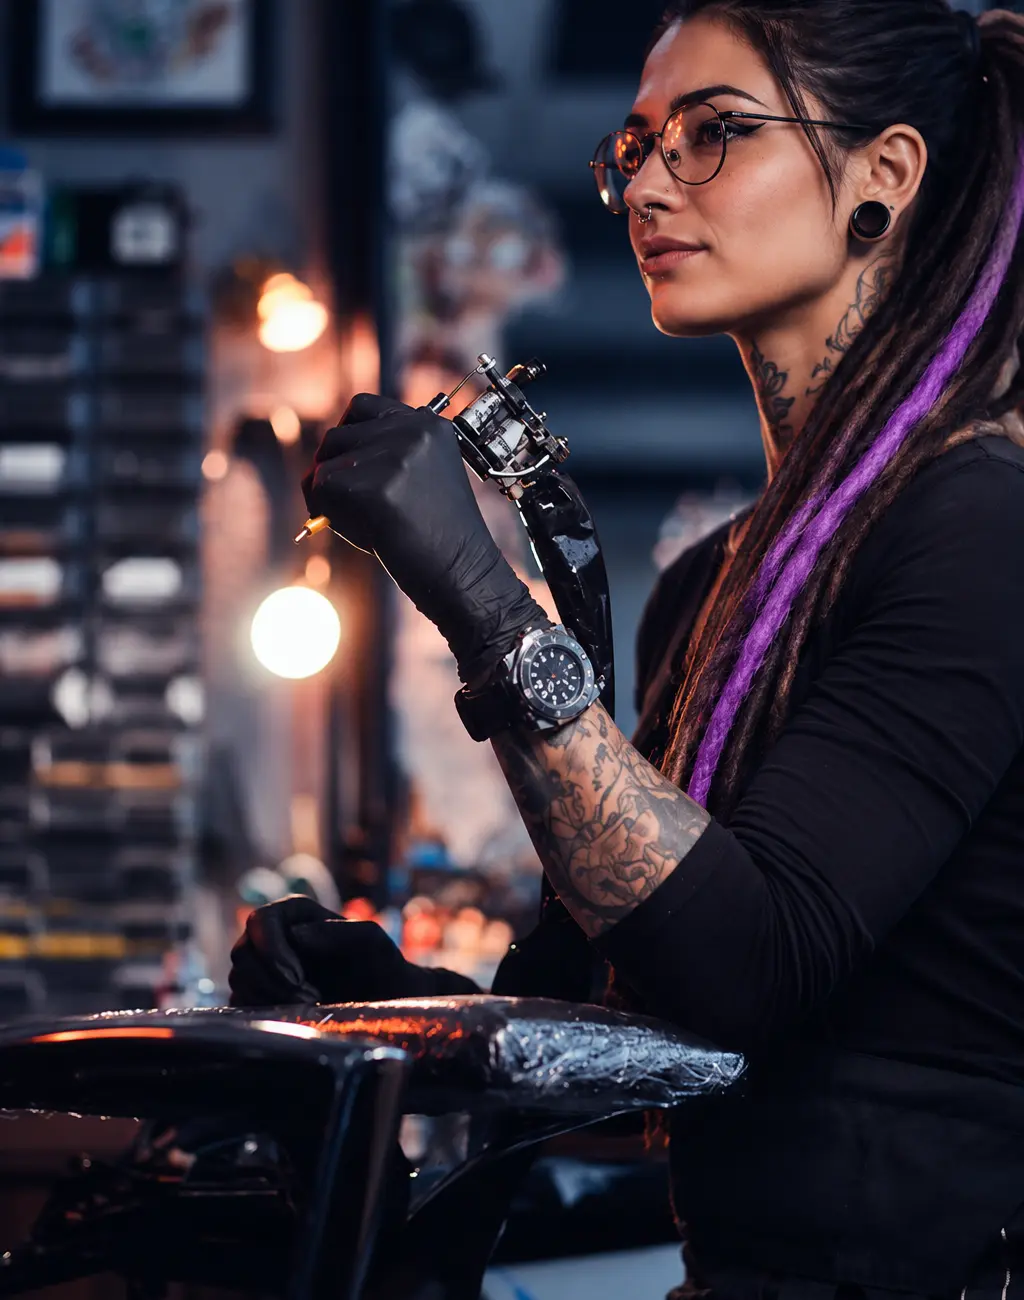
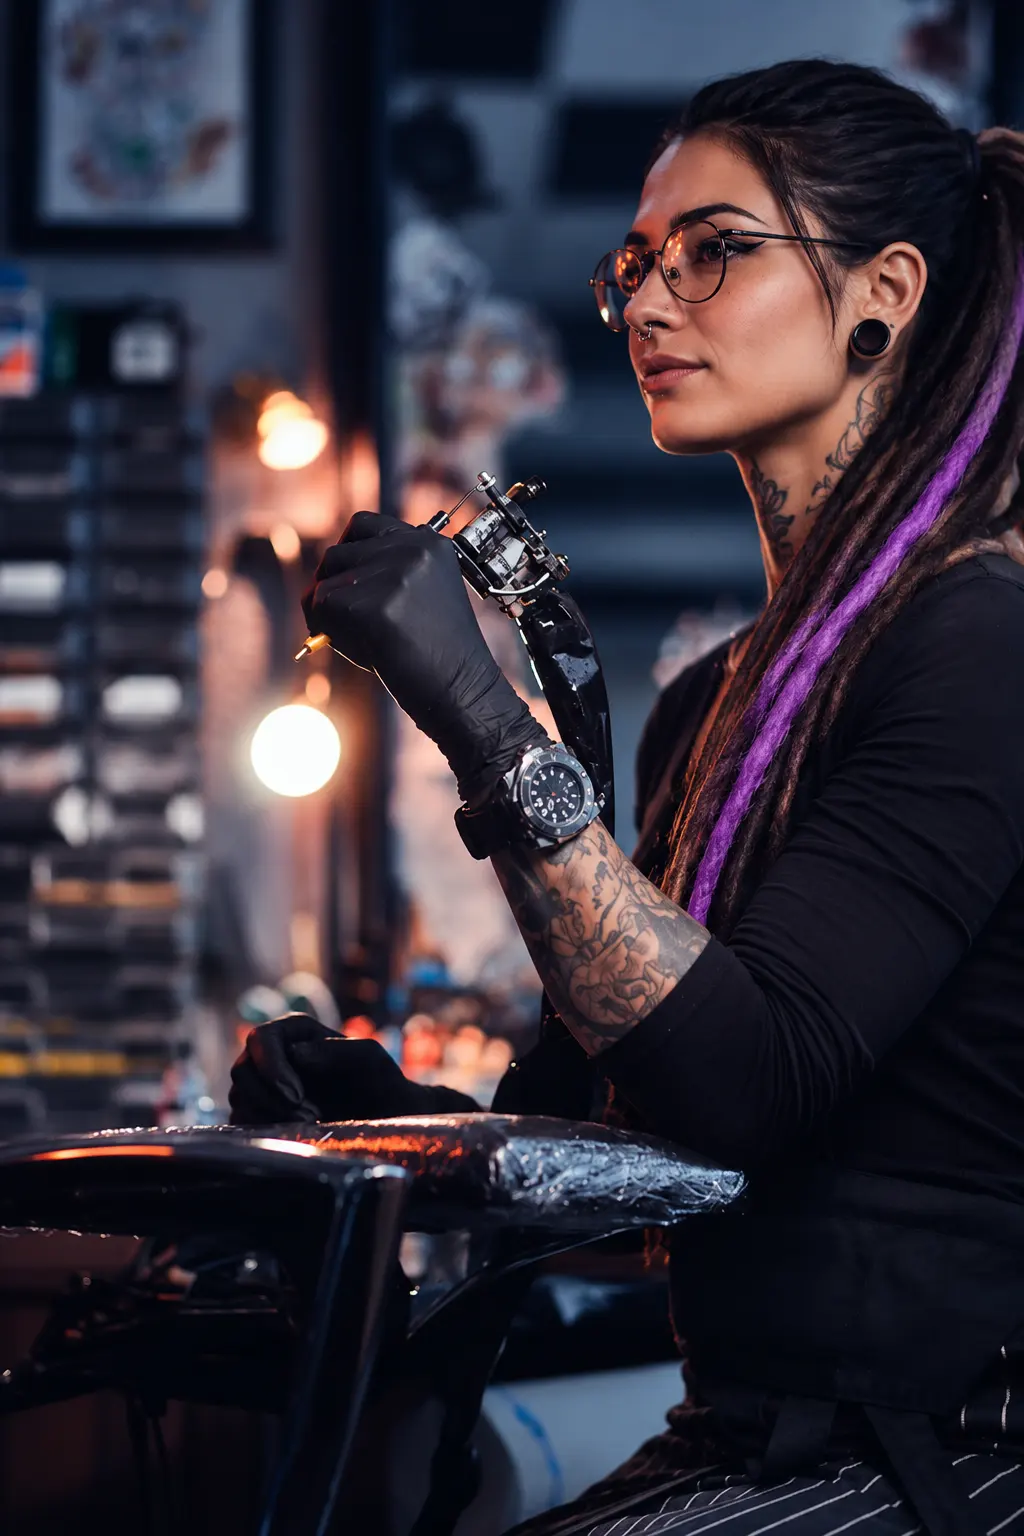
feat(diseño): salón en lavanda/rosa y uñas en pervinca/marino/coral, barra inferior igual para todos, tatuaje con cabeza completa

diff --git a/src/styles/temas-suaves.css b/src/styles/temas-suaves.css
@@ -116,42 +116,42 @@ html[data-theme="dark"]:has([data-vertical="spa"]) {
 [data-tema-vista="salon"],
 html[data-vertical="salon"],
 html:has([data-vertical="salon"]) {
-  --bg: #fffdfd;
-  --app-bg: #f7f1f1;
-  --surface: #f0e5e5;
-  --surface-2: #e6d8d8;
-  --ink: #33253a;
-  --paper: #fffdfd;
-  --signal: #ddbabd;
-  --signal-pressed: #cfa5a9;
-  --text: #2b2230;
-  --text-muted: #62566a;
-  --text-faint: #72667a;
-  --text-disabled: #9a8fa0;
-  --accent-text: #7a3f74;
-  --line: #d8c8cc;
-  --line-input: #8e7f94;
-  --grid: #eadcdd;
-  --grid-soft: #efe3e3;
-  --shadow-ink: #33253a;
-  --focus: #7a3f74;
-  --success: #a9d6b6;
-  --warning: #e6c98b;
-  --danger: #d9788b;
-  --info: #33253a;
-  --scrim: rgba(43, 34, 48, 0.55);
-  --sn-shadow-hard: 0 12px 28px -14px rgba(90, 50, 80, 0.32);
-  --sn-shadow-hard-sm: 0 6px 16px -10px rgba(90, 50, 80, 0.28);
-  --nav-bg: #fffdfd;
-  --nav-text: #2b2230;
-  --nav-muted: rgba(43, 34, 48, 0.66);
-  --nav-accent: #7a3f74;
-  --nav-active-bg: rgba(122, 63, 116, 0.1);
-  --nav-borde: #eadcdd;
-  --hero-gradient: linear-gradient(135deg, #f1d9dc 0%, #ddbabd 50%, #c59bb8 100%);
-  --kpi-gradient: linear-gradient(135deg, #e8c8cb, #d2a9c0);
-  --hero-text: #2b2230;
-  --r-card: 20px;
+  --bg: #fcfaff;
+  --app-bg: #f4eefa;
+  --surface: #ece4f4;
+  --surface-2: #e2d8ee;
+  --ink: #3f3452;
+  --paper: #fcfaff;
+  --signal: #d8c7ec;
+  --signal-pressed: #c9b5e3;
+  --text: #3f3452;
+  --text-muted: #655a78;
+  --text-faint: #766b88;
+  --text-disabled: #a79eb8;
+  --accent-text: #6a5590;
+  --line: #e0d6ec;
+  --line-input: #8d82a3;
+  --grid: #e8def2;
+  --grid-soft: #efe7f6;
+  --shadow-ink: #3f3452;
+  --focus: #6a5590;
+  --success: #b7d8bd;
+  --warning: #f1dca8;
+  --danger: #ee9db2;
+  --info: #3f3452;
+  --scrim: rgba(63, 52, 82, 0.55);
+  --sn-shadow-hard: 0 14px 30px -16px rgba(106, 85, 144, 0.34);
+  --sn-shadow-hard-sm: 0 6px 16px -10px rgba(106, 85, 144, 0.28);
+  --nav-bg: #fcfaff;
+  --nav-text: #3f3452;
+  --nav-muted: rgba(63, 52, 82, 0.66);
+  --nav-accent: #6a5590;
+  --nav-active-bg: rgba(139, 120, 168, 0.14);
+  --nav-borde: #e8def2;
+  --hero-gradient: linear-gradient(160deg, #efe3f5 0%, #f5d9e4 48%, #f8dcc8 100%);
+  --kpi-gradient: linear-gradient(135deg, #e3e8dc, #e4e1f0);
+  --hero-text: #3f3452;
+  --r-card: 24px;
   --sombra-banner: var(--sn-shadow-hard);
   --r-ctl: 999px;
   --brand: var(--signal);
@@ -165,90 +165,87 @@ html:has([data-vertical="salon"]) {
 [data-tema-vista="salon"][data-modo="dark"],
 html[data-theme="dark"][data-vertical="salon"],
 html[data-theme="dark"]:has([data-vertical="salon"]) {
-  --bg: #1e171f;
-  --app-bg: #161117;
-  --surface: #291f2b;
-  --surface-2: #352a37;
-  --ink: #120d13;
-  --paper: #f3ecf2;
-  --signal: #e3b5be;
-  --signal-pressed: #f0c9d1;
-  --text: #f3ecf2;
-  --text-muted: #c5b8c4;
-  --text-faint: #a89ba7;
-  --text-disabled: #7a6f79;
-  --accent-text: #ddaad6;
-  --line: #42344a;
-  --line-input: #85708c;
-  --grid: #2e2430;
-  --grid-soft: #281f2a;
+  --bg: #1f1a2b;
+  --app-bg: #171320;
+  --surface: #292236;
+  --surface-2: #342c44;
+  --ink: #120e1b;
+  --paper: #f5f0fa;
+  --signal: #d2bfe8;
+  --signal-pressed: #e1d2f2;
+  --text: #f5f0fa;
+  --text-muted: #c9c0d8;
+  --text-faint: #ada3bf;
+  --text-disabled: #78708c;
+  --accent-text: #dbc9f2;
+  --line: #3d3450;
+  --line-input: #837a9c;
+  --grid: #2e2740;
+  --grid-soft: #272036;
+  --focus: #dbc9f2;
+  --success: #8fc99a;
+  --warning: #e2cd8e;
+  --danger: #ee8fa5;
+  --info: #f5f0fa;
   --shadow-ink: #000000;
-  --focus: #ddaad6;
-  --success: #86c79a;
-  --warning: #ddbe79;
-  --danger: #ee8c9e;
-  --info: #f3ecf2;
   --scrim: rgba(0, 0, 0, 0.7);
   --sn-shadow-hard: 0 12px 28px -14px rgba(0, 0, 0, 0.7);
   --sn-shadow-hard-sm: 0 6px 16px -10px rgba(0, 0, 0, 0.6);
-  --nav-bg: #181319;
-  --nav-text: #f3ecf2;
-  --nav-muted: rgba(243, 236, 242, 0.66);
-  --nav-accent: #ddaad6;
-  --nav-active-bg: rgba(221, 170, 214, 0.14);
-  --nav-borde: #2e2430;
-  --hero-gradient: linear-gradient(135deg, #3b2a40 0%, #2a1f2d 60%, #1c141e 100%);
-  --kpi-gradient: linear-gradient(135deg, #46304d, #32243a);
-  --hero-text: #f3ecf2;
+  --nav-bg: #1a1625;
+  --nav-text: #f5f0fa;
+  --nav-muted: rgba(245, 240, 250, 0.66);
+  --nav-accent: #dbc9f2;
+  --nav-active-bg: rgba(210, 191, 232, 0.15);
+  --nav-borde: #2e2740;
+  --hero-gradient: linear-gradient(160deg, #3b2f52 0%, #4a3350 50%, #4d3a45 100%);
+  --kpi-gradient: linear-gradient(135deg, #3a4a3e, #3a3452);
+  --hero-text: #f5f0fa;
   --brand: var(--signal);
   --brand-text: var(--accent-text);
   color-scheme: dark;
 }
 
-/* ───────────────────────── UÑAS · claro ─────────────────────────
- * Paleta tomada de las uñas de la referencia: pasteles sobre crema (amarillo mantequilla, menta, celeste, lila y rosa).
- * El lila es el color de marca; el resto de pasteles se reparte en degradados y detalles.
- */
+/* ───────────────────────── UÑAS · claro ───────────────────────── */
 [data-vertical="unas"],
 [data-tema-vista="unas"],
 html[data-vertical="unas"],
 html:has([data-vertical="unas"]) {
-  --bg: #fffdfb;
-  --app-bg: #faf7f3;
-  --surface: #f2ece6;
-  --surface-2: #e9e0d8;
-  --ink: #2d2a3a;
-  --paper: #fffdfb;
-  --signal: #cbbaee;
-  --signal-pressed: #b9a5e6;
-  --text: #2d2a3a;
-  --text-muted: #5d5870;
-  --text-faint: #6c6780;
-  --text-disabled: #a09bb0;
-  --accent-text: #5a4691;
-  --line: #e1d9e8;
-  --line-input: #8c84a3;
-  --grid: #ece5ee;
-  --grid-soft: #f2ecf2;
-  --shadow-ink: #2d2a3a;
-  --focus: #5a4691;
+  --bg: #ffffff;
+  --app-bg: #f1f4fd;
+  --surface: #e3eaf9;
+  --surface-2: #d6dff5;
+  --ink: #1b2a4e;
+  --paper: #ffffff;
+  --signal: #f4876a;
+  --signal-pressed: #ea7253;
+  --text: #1b2a4e;
+  --text-muted: #4d5a7c;
+  --text-faint: #5d6a8c;
+  --text-disabled: #9aa5c0;
+  --accent-text: #b03a20;
+  --line: #d5ddf0;
+  --line-input: #7a86a8;
+  --grid: #e3e9f7;
+  --grid-soft: #eaeffa;
+  --shadow-ink: #1b2a4e;
+  --focus: #b03a20;
   --success: #a8d8b9;
-  --warning: #f3e5a1;
-  --danger: #e58aa0;
-  --info: #2d2a3a;
-  --scrim: rgba(45, 42, 58, 0.55);
-  --sn-shadow-hard: 0 12px 28px -14px rgba(90, 70, 145, 0.3);
-  --sn-shadow-hard-sm: 0 6px 16px -10px rgba(90, 70, 145, 0.26);
-  --nav-bg: #fffdfb;
-  --nav-text: #2d2a3a;
-  --nav-muted: rgba(45, 42, 58, 0.66);
-  --nav-accent: #5a4691;
-  --nav-active-bg: rgba(138, 112, 214, 0.13);
-  --nav-borde: #ece5ee;
-  --hero-gradient: linear-gradient(120deg, #fbefb2 0%, #c8e9d4 27%, #b9d9f4 55%, #d5c8f3 80%, #f7bfcd 100%);
-  --kpi-gradient: linear-gradient(135deg, #c8e9d4, #b9d9f4);
-  --hero-text: #2d2a3a;
-  --r-card: 24px;
+  --warning: #f3dfa2;
+  --danger: #f28ea3;
+  --info: #1b2a4e;
+  --scrim: rgba(27, 42, 78, 0.55);
+  --sn-shadow-hard: 0 14px 30px -16px rgba(27, 42, 78, 0.34);
+  --sn-shadow-hard-sm: 0 6px 16px -10px rgba(27, 42, 78, 0.28);
+  --nav-bg: #ffffff;
+  --nav-text: #1b2a4e;
+  --nav-muted: rgba(27, 42, 78, 0.66);
+  --nav-accent: #b03a20;
+  --nav-active-bg: rgba(244, 135, 106, 0.16);
+  --nav-borde: #e3e9f7;
+  --hero-gradient: linear-gradient(135deg, #dde6fc 0%, #c9d6f8 62%, #f8c4b4 100%);
+  --kpi-gradient: linear-gradient(135deg, #dde6fc, #cbd8f7);
+  --hero-text: #1b2a4e;
+  --r-card: 26px;
   --sombra-banner: var(--sn-shadow-hard);
   --r-ctl: 999px;
   --brand: var(--signal);
@@ -262,41 +259,41 @@ html:has([data-vertical="unas"]) {
 [data-tema-vista="unas"][data-modo="dark"],
 html[data-theme="dark"][data-vertical="unas"],
 html[data-theme="dark"]:has([data-vertical="unas"]) {
-  --bg: #1e1b28;
-  --app-bg: #161420;
-  --surface: #282434;
-  --surface-2: #332e43;
-  --ink: #110f18;
-  --paper: #f4f0fa;
-  --signal: #cdbcf0;
-  --signal-pressed: #dccff6;
-  --text: #f4f0fa;
-  --text-muted: #c8c1d8;
-  --text-faint: #aba4be;
-  --text-disabled: #766f8a;
-  --accent-text: #d9cbf7;
-  --line: #3b3551;
-  --line-input: #80789b;
-  --grid: #2d293b;
-  --grid-soft: #262233;
-  --shadow-ink: #000000;
-  --focus: #d9cbf7;
+  --bg: #141c33;
+  --app-bg: #0e1426;
+  --surface: #1c2644;
+  --surface-2: #26325a;
+  --ink: #0b1020;
+  --paper: #eef2ff;
+  --signal: #f4876a;
+  --signal-pressed: #f79a80;
+  --text: #eef2ff;
+  --text-muted: #bcc6e4;
+  --text-faint: #9ea9cf;
+  --text-disabled: #6a759d;
+  --accent-text: #ff9d82;
+  --line: #2e3a62;
+  --line-input: #7380ac;
+  --grid: #222d50;
+  --grid-soft: #1b2542;
+  --focus: #ff9d82;
   --success: #8fd0a5;
   --warning: #e6d58e;
-  --danger: #f08aa2;
-  --info: #f4f0fa;
+  --danger: #f2788d;
+  --info: #eef2ff;
+  --shadow-ink: #000000;
   --scrim: rgba(0, 0, 0, 0.7);
   --sn-shadow-hard: 0 12px 28px -14px rgba(0, 0, 0, 0.7);
   --sn-shadow-hard-sm: 0 6px 16px -10px rgba(0, 0, 0, 0.6);
-  --nav-bg: #181520;
-  --nav-text: #f4f0fa;
-  --nav-muted: rgba(244, 240, 250, 0.66);
-  --nav-accent: #d9cbf7;
-  --nav-active-bg: rgba(205, 188, 240, 0.15);
-  --nav-borde: #2d293b;
-  --hero-gradient: linear-gradient(120deg, #55503a 0%, #35514a 27%, #31506a 55%, #4b3f6c 80%, #6a4258 100%);
-  --kpi-gradient: linear-gradient(135deg, #35514a, #31506a);
-  --hero-text: #f4f0fa;
+  --nav-bg: #10172b;
+  --nav-text: #eef2ff;
+  --nav-muted: rgba(238, 242, 255, 0.66);
+  --nav-accent: #ff9d82;
+  --nav-active-bg: rgba(244, 135, 106, 0.16);
+  --nav-borde: #222d50;
+  --hero-gradient: linear-gradient(135deg, #27346b 0%, #1e2a55 62%, #4a2f3d 100%);
+  --kpi-gradient: linear-gradient(135deg, #27346b, #1e2a55);
+  --hero-text: #eef2ff;
   --brand: var(--signal);
   --brand-text: var(--accent-text);
   color-scheme: dark;
@@ -357,6 +354,15 @@ html:has([data-vertical]) {
 
   /* Títulos: serif suave en frase normal; la palabra de acento va en cursiva. */
   & :is(.poster-1, .poster-2, .poster-3, .poster-4, .poster-5, .poster-xl, .poster-lg, .sn-poster, .section, .sn-section, .font-display) {
+    font-family: var(--sn-font-display);
+  }
+  & :is(.section, .sn-section, .font-display) {
+    font-stretch: 100%;
+    text-transform: none;
+    letter-spacing: 0;
+  }
+  /* Solo los titulares grandes (póster) llevan la tipografía de lucimiento; logotipos y títulos chicos usan la de lectura. */
+  & :is(.poster-1, .poster-2, .poster-3, .poster-4, .poster-5, .poster-xl, .poster-lg, .sn-poster) {
     font-family: var(--sn-font-poster, var(--sn-font-display));
     font-stretch: 100%;
     font-weight: 400;
@@ -451,23 +457,24 @@ html:has([data-vertical]) {
     stroke-linejoin: round;
   }
 
-  /* Barra de pestañas del cliente: clara y suave (no negra). */
-  & .sn-tabbar {
-    background: var(--bg);
-    border-top: 1px solid var(--line);
+  /* La barra inferior del cliente es igual para todos los negocios: se fija a su diseño original. */
+  & .sn-tabbar,
+  & .sn-tabbar * {
     border-radius: 0;
+  }
+  & .sn-tabbar {
+    background: #0a0a0a;
+    border-top: 1px solid #0a0a0a;
   }
   & .sn-tab {
-    color: var(--text-muted);
-    border-right: 0;
-    font: 500 11px/14px var(--sn-font-sans);
-    letter-spacing: 0.02em;
-    text-transform: none;
-    border-radius: 0;
+    color: #a3a3a3;
+    font: 400 11px/14px var(--font-space-mono), ui-monospace, monospace;
+    letter-spacing: 0.66px;
+    text-transform: uppercase;
   }
   & .sn-tab.is-active {
-    background: var(--nav-active-bg);
-    color: var(--accent-text);
+    background: #fe5400;
+    color: #0a0a0a;
     font-weight: 700;
   }
 

diff --git a/src/components/panel/panel-nav.tsx b/src/components/panel/panel-nav.tsx
@@ -236,7 +236,7 @@ export function PanelNav({ rol, prestaServicios = false }: { rol: RolPanel; /** 
       {inferior.length > 0 ? (
         <nav
           aria-label="Accesos rápidos"
-          className="fixed inset-x-0 bottom-0 z-30 grid grid-cols-4 border-t border-[var(--nav-borde)] bg-[var(--nav-bg)] pb-[env(safe-area-inset-bottom)] lg:hidden"
+          className="fixed inset-x-0 bottom-0 z-30 grid grid-cols-4 border-t border-white/10 bg-[#0a0a0a] pb-[env(safe-area-inset-bottom)] lg:hidden"
         >
           {inferior.map(({ href, etiqueta, Icono }) => {
             const activo = esActivo(href);
@@ -247,7 +247,7 @@ export function PanelNav({ rol, prestaServicios = false }: { rol: RolPanel; /** 
                 aria-current={activo ? "page" : undefined}
                 className={cn(
                   "flex min-h-14 flex-col items-center justify-center gap-1 text-[10.5px] font-bold uppercase tracking-wide",
-                  activo ? "text-[var(--nav-accent)]" : "text-[var(--nav-muted)]"
+                  activo ? "text-[#ff4d00]" : "text-white/70"
                 )}
               >
                 <Icono className="size-5" aria-hidden />

diff --git a/src/components/auth/auth-dividido.tsx b/src/components/auth/auth-dividido.tsx
@@ -9,7 +9,7 @@ import s from "./auth-dividido.module.css";
 /** Imagen de cada categoría y de qué lado queda: se alternan para que cada cambio de categoría se vea como un giro. */
 const FOTO: Record<CategoriaRegistro, { src: string | null; lado: "izq" | "der"; posicion?: string }> = {
   barberia: { src: "/img/auth/barberia.webp", lado: "izq" },
-  tatuajes: { src: "/img/auth/tattoo.webp", lado: "der", posicion: "60% 50%" },
+  tatuajes: { src: "/img/auth/tattoo.webp", lado: "der", posicion: "50% 8%" },
   salon: { src: "/img/auth/salon.webp", lado: "izq" },
   spa: { src: "/img/auth/spa.webp", lado: "der", posicion: "50% 50%" },
   manicura: { src: "/img/auth/unas.webp", lado: "izq", posicion: "30% 50%" },
